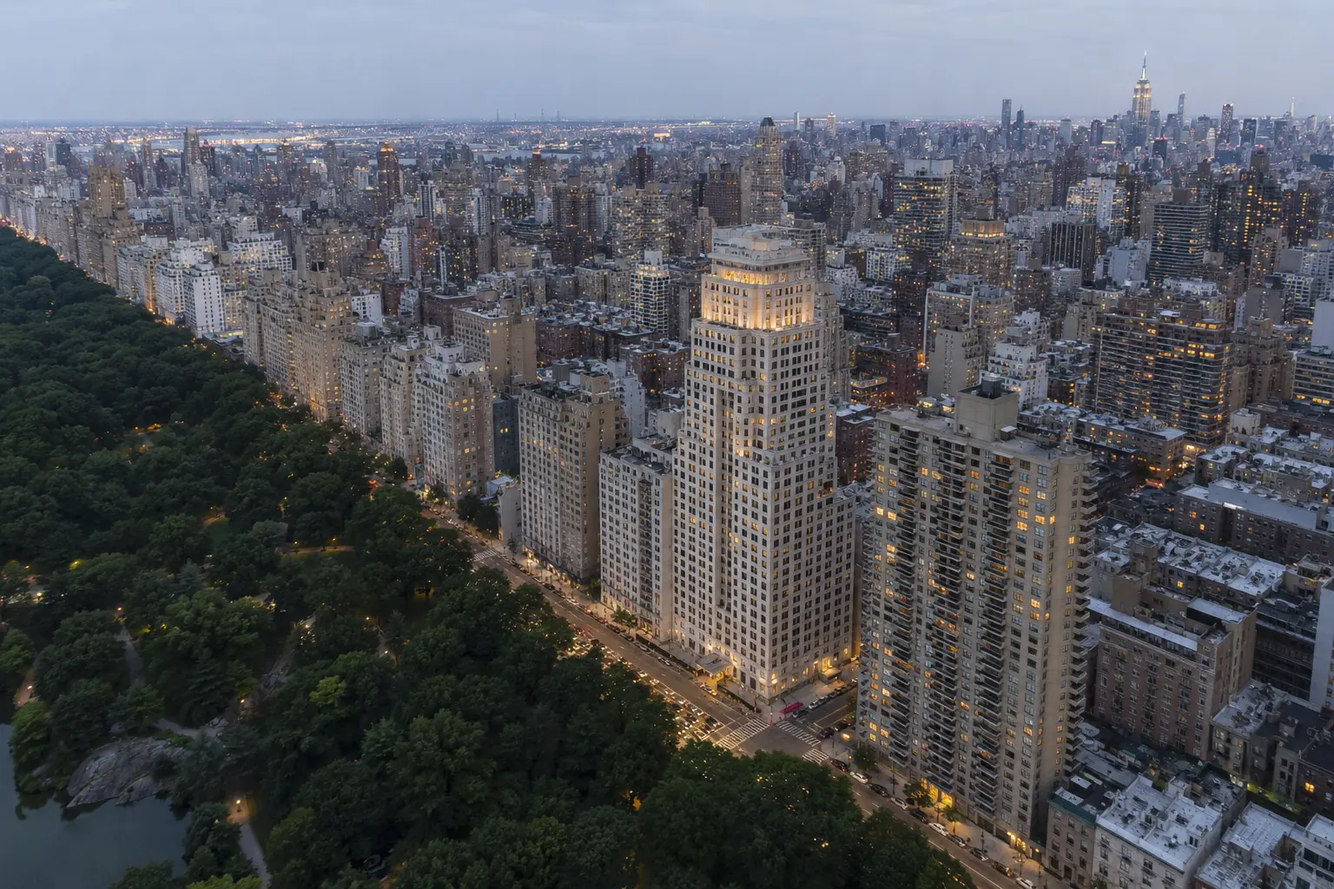
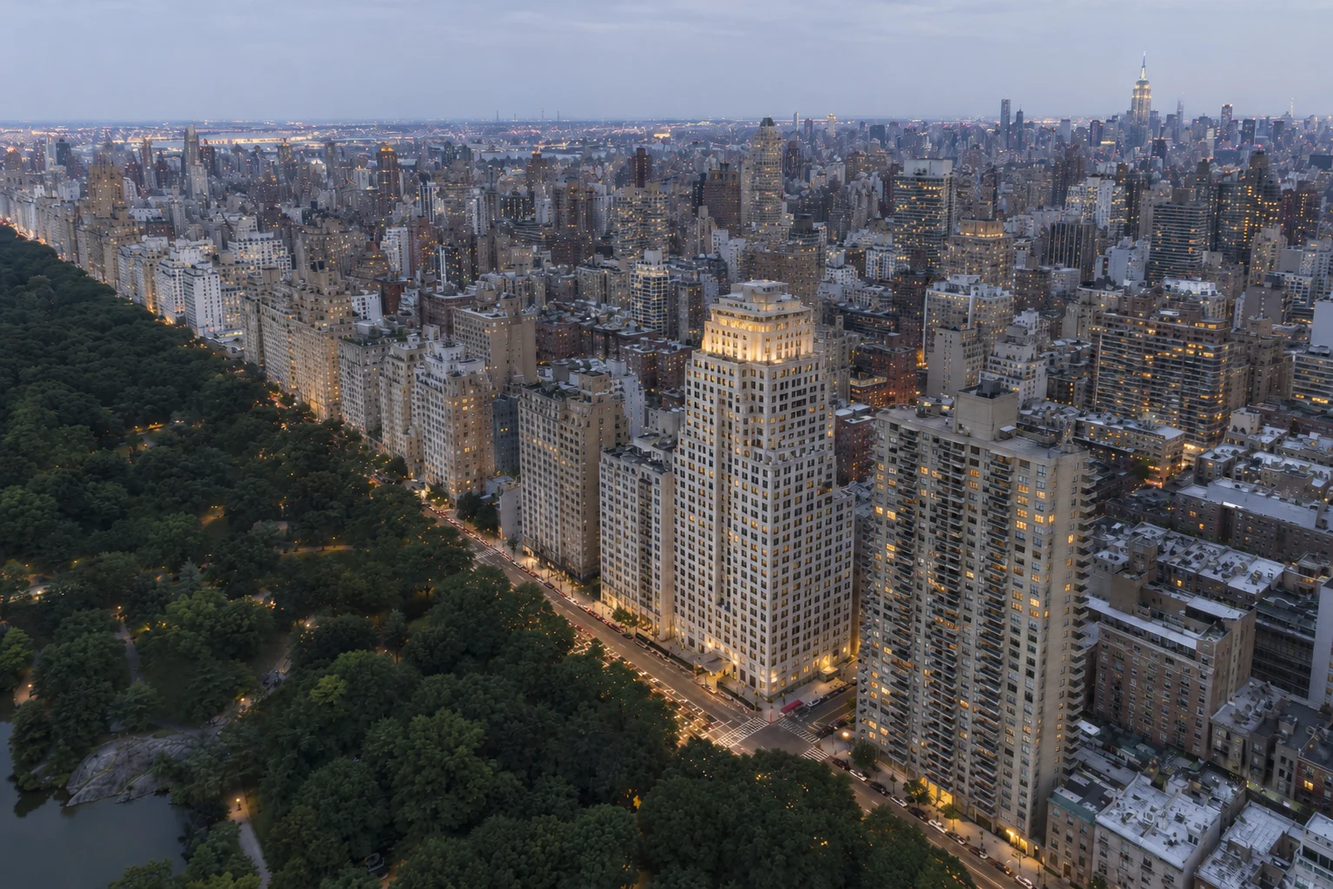
Osborn: shorter tower in hero photo
Claude-Session: https://claude.ai/code/session_01X5Te7gPaiBkF3od7h8Jo5g

diff --git a/norman-osborn-penthouse/index.html b/norman-osborn-penthouse/index.html
@@ -1,16 +1,16 @@
 <!DOCTYPE html><html lang="en"><head><meta charset="utf-8"/><meta name="viewport" content="width=device-width, initial-scale=1"/>
 <title>The Osborn Penthouse · Fifth Avenue at East 72nd</title>
 <meta name="description" content="A fictional luxury listing for Norman Osborn's Upper East Side residence."/>
-<meta property="og:title" content="The Osborn Residence"/><meta property="og:description" content="Four private floors above Central Park. A fictional listing."/><meta property="og:image" content="https://lukesully95.github.io/norman-osborn-penthouse/property-images/Norman%20Osborn%E2%80%99s%20Beaux-Arts%20Parkside%20Residence.webp"/>
+<meta property="og:title" content="The Osborn Residence"/><meta property="og:description" content="Four private floors above Central Park. A fictional listing."/><meta property="og:image" content="https://lukesully95.github.io/norman-osborn-penthouse/property-images/Norman%20Osborn%E2%80%99s%20Beaux-Arts%20Parkside%20Residence.webp?v=2"/>
 <link rel="stylesheet" href="style.css"/>
 <style>.lair{background-size:cover;background-position:center;color:#fff;padding:clamp(60px,9vw,130px) clamp(20px,6vw,90px)}.lair .in{max-width:760px}.lair h2{font-family:Georgia,serif;font-weight:400;font-size:clamp(34px,4.5vw,64px);line-height:1.02;margin:10px 0 22px}.lair p{opacity:.85;line-height:1.7;max-width:640px}.price{font-family:Georgia,serif;font-size:clamp(22px,2.4vw,32px);margin:22px 0 6px}.cta,.topbar nav a:hover{color:#c3a2f5}.monogram{border-color:#9b6ee0!important;color:#c3a2f5}.filters button.active{background:#4b2a7a!important;border-color:#4b2a7a!important;color:#fff!important}.facts{background:linear-gradient(90deg,#0f3b24,#2a1846)!important}.price{color:#c3a2f5}.lair{background-blend-mode:normal}.closing{background:linear-gradient(180deg,rgba(10,40,24,.9),rgba(30,14,55,.92)),url('property-images/Osborn%20Tower%20Beneath%20Gathering%20Storm.webp') 50%/cover!important}footer{background:#140b22!important;color:#c3a2f5!important}.fine{opacity:.6;font-size:12px;letter-spacing:.04em}</style>
 </head><body><main>
 <header class="topbar"><a class="wordmark" href="#top"><span class="monogram">O</span><span>OSBORN PRIVATE RESIDENCES</span></a><nav><a href="#overview">Overview</a><a href="#gallery">Gallery</a><a href="#details">Details</a></nav></header>
-<section id="top" class="hero" style="background-image:linear-gradient(90deg,rgba(8,30,18,.9),rgba(35,16,60,.45) 55%,rgba(20,8,35,.08)),url(&quot;property-images/Norman%20Osborn%E2%80%99s%20Beaux-Arts%20Parkside%20Residence.webp&quot;)"><div class="hero-copy"><p class="eyebrow">Exclusive listing · The Penthouse · Fifth Avenue at East 72nd Street</p><h1>The Osborn<br/>Residence</h1><p class="dek">Four private floors at the top of a prewar limestone co-op on Central Park. Assembled over a decade by Oscorp founder Norman Osborn as the family home he shared with his son, Harry.</p><p class="price">Offered at $95,000,000</p><p class="fine">Co-op · Monthly maintenance $68,400</p><a class="cta" href="#gallery">Explore the residence <span>↓</span></a></div><div class="hero-index"><span>The residence</span><b>26</b><span>rooms &amp; views</span></div></section>
+<section id="top" class="hero" style="background-image:linear-gradient(90deg,rgba(8,30,18,.9),rgba(35,16,60,.45) 55%,rgba(20,8,35,.08)),url(&quot;property-images/Norman%20Osborn%E2%80%99s%20Beaux-Arts%20Parkside%20Residence.webp?v=2&quot;)"><div class="hero-copy"><p class="eyebrow">Exclusive listing · The Penthouse · Fifth Avenue at East 72nd Street</p><h1>The Osborn<br/>Residence</h1><p class="dek">Four private floors at the top of a prewar limestone co-op on Central Park. Assembled over a decade by Oscorp founder Norman Osborn as the family home he shared with his son, Harry.</p><p class="price">Offered at $95,000,000</p><p class="fine">Co-op · Monthly maintenance $68,400</p><a class="cta" href="#gallery">Explore the residence <span>↓</span></a></div><div class="hero-index"><span>The residence</span><b>26</b><span>rooms &amp; views</span></div></section>
 <section id="overview" class="overview wrap"><div><p class="eyebrow dark">The property</p><h2>A mansion<br/>in the sky.</h2></div><div class="overview-copy"><p class="lead">Discreet from the street and formidable in scale, the residence occupies floors 22 through 25 of one of Fifth Avenue's most private co-ops.</p><p>A key-locked private elevator opens to a walnut and green-marble foyer. The principal rooms face west over Central Park, with Midtown views to the south. Walnut, marble and bronze run through every floor. The residence has seven bedrooms, eight full and two half baths, a library, a screening room, a gym, staff quarters and a private roof terrace with a copper-and-glass conservatory.</p><p>The building offers a 24-hour doorman, a resident manager, private storage and a wine cellar. Board approval is required. Brokers, please call for an appointment.</p><p class="fiction-note">A fictional, fan-made listing based on Norman Osborn's wealth, taste and Manhattan history in the comics. Not an official Marvel property.</p></div></section>
 <section id="details" class="facts"><div><b>$95M</b><span>asking price</span></div><div><b>14,200</b><span>interior sq ft</span></div><div><b>7 · 8.5</b><span>bedrooms · baths</span></div><div><b>22–25</b><span>private floors</span></div><div><b>3,100</b><span>sq ft of terraces</span></div></section>
 <section id="gallery" class="gallery-section wrap"><div class="gallery-head"><div><p class="eyebrow dark">Complete visual archive</p><h2>Every room.<br/>One residence.</h2></div><p>From the limestone exterior and formal entertaining floor to Harry's suite and the roof garden. A separate, unlisted facility is shown last.</p></div>
-<div class="filters" role="tablist"><button class="active" data-f="All">All<small>32</small></button><button class="" data-f="Floor plan">Floor plan<small>1</small></button><button class="" data-f="Exterior">Exterior<small>3</small></button><button class="" data-f="Residence">Residence<small>17</small></button><button class="" data-f="Private suites">Private suites<small>4</small></button><button class="" data-f="Rooftop">Rooftop<small>2</small></button><button class="" data-f="Off-site">Goblin lair (off-site)<small>5</small></button></div><div class="masonry"><button class="card wide" data-c="Floor plan" data-i="0" aria-label="Open Floor plan, floors 22–25"><img src="property-images/Floor%20plan.webp" alt="Floor plan, floors 22–25" loading="eager"/><span class="shade"></span><span class="card-copy"><small>Floor plan</small><strong>Floor plan, floors 22–25</strong></span><span class="plus">＋</span></button><button class="card wide" data-c="Exterior" data-i="1" aria-label="Open The building from above, Fifth Avenue at East 72nd"><img src="property-images/Aerial%20View%20of%20Norman%20Osborn%27s%20Residence.webp" alt="The building from above, Fifth Avenue at East 72nd" loading="eager"/><span class="shade"></span><span class="card-copy"><small>Exterior</small><strong>The building from above, Fifth Avenue at East 72nd</strong></span><span class="plus">＋</span></button><button class="card " data-c="Exterior" data-i="2" aria-label="Open Beaux-Arts limestone facade on the park"><img src="property-images/Norman%20Osborn%E2%80%99s%20Beaux-Arts%20Parkside%20Residence.webp" alt="Beaux-Arts limestone facade on the park" loading="eager"/><span class="shade"></span><span class="card-copy"><small>Exterior</small><strong>Beaux-Arts limestone facade on the park</strong></span><span class="plus">＋</span></button><button class="card wide" data-c="Exterior" data-i="3" aria-label="Open Doorman lobby"><img src="property-images/Building%20lobby.webp" alt="Doorman lobby" loading="eager"/><span class="shade"></span><span class="card-copy"><small>Exterior</small><strong>Doorman lobby</strong></span><span class="plus">＋</span></button><button class="card " data-c="Residence" data-i="4" aria-label="Open Private elevator foyer in walnut, brass and green marble"><img src="property-images/Walnut%2C%20brass%2C%20and%20green%20marble%20foyer.webp" alt="Private elevator foyer in walnut, brass and green marble" loading="eager"/><span class="shade"></span><span class="card-copy"><small>Residence</small><strong>Private elevator foyer in walnut, brass and green marble</strong></span><span class="plus">＋</span></button><button class="card " data-c="Residence" data-i="5" aria-label="Open West-facing living room over Central Park"><img src="property-images/West-Facing%20Living%20Room%20with%20Central%20Park%20View.webp" alt="West-facing living room over Central Park" loading="eager"/><span class="shade"></span><span class="card-copy"><small>Residence</small><strong>West-facing living room over Central Park</strong></span><span class="plus">＋</span></button><button class="card wide" data-c="Residence" data-i="6" aria-label="Open Family lounge with park views"><img src="property-images/Family%20lounge%20with%20Central%20Park%20views.webp" alt="Family lounge with park views" loading="lazy"/><span class="shade"></span><span class="card-copy"><small>Residence</small><strong>Family lounge with park views</strong></span><span class="plus">＋</span></button><button class="card " data-c="Residence" data-i="7" aria-label="Open Formal dining room seating 16"><img src="property-images/Walnut%20Dining%20Room%20with%20Distant%20Midtown.webp" alt="Formal dining room seating 16" loading="lazy"/><span class="shade"></span><span class="card-copy"><small>Residence</small><strong>Formal dining room seating 16</strong></span><span class="plus">＋</span></button><button class="card " data-c="Residence" data-i="8" aria-label="Open Chef&#x27;s kitchen in walnut and marble"><img src="property-images/Walnut%20Marble%20Kitchen%20with%20Queens%20Views.webp" alt="Chef&#x27;s kitchen in walnut and marble" loading="lazy"/><span class="shade"></span><span class="card-copy"><small>Residence</small><strong>Chef&#x27;s kitchen in walnut and marble</strong></span><span class="plus">＋</span></button><button class="card wide" data-c="Residence" data-i="9" aria-label="Open Breakfast room"><img src="property-images/Osborn%27s%20Manhattan%20Breakfast%20Nook.webp" alt="Breakfast room" loading="lazy"/><span class="shade"></span><span class="card-copy"><small>Residence</small><strong>Breakfast room</strong></span><span class="plus">＋</span></button><button class="card " data-c="Residence" data-i="10" aria-label="Open Screening room"><img src="property-images/Burgundy%20Seats%20in%20a%20Walnut%20Screening%20Room.webp" alt="Screening room" loading="lazy"/><span class="shade"></span><span class="card-copy"><small>Residence</small><strong>Screening room</strong></span><span class="plus">＋</span></button><button class="card " data-c="Residence" data-i="11" aria-label="Open Bar and billiards lounge"><img src="property-images/Walnut%20Bar%20and%20Billiards%20Lounge.webp" alt="Bar and billiards lounge" loading="lazy"/><span class="shade"></span><span class="card-copy"><small>Residence</small><strong>Bar and billiards lounge</strong></span><span class="plus">＋</span></button><button class="card " data-c="Residence" data-i="12" aria-label="Open Private gym"><img src="property-images/Private%20gym%20over%20Upper%20East%20Side.webp" alt="Private gym" loading="lazy"/><span class="shade"></span><span class="card-copy"><small>Residence</small><strong>Private gym</strong></span><span class="plus">＋</span></button><button class="card wide" data-c="Residence" data-i="13" aria-label="Open Norman&#x27;s study, with Oscorp archives and a private service exit"><img src="property-images/Norman%20Osborn%27s%20Walnut%20Study%20with%20City%20Views.webp" alt="Norman&#x27;s study, with Oscorp archives and a private service exit" loading="lazy"/><span class="shade"></span><span class="card-copy"><small>Residence</small><strong>Norman&#x27;s study, with Oscorp archives and a private service exit</strong></span><span class="plus">＋</span></button><button class="card " data-c="Residence" data-i="14" aria-label="Open Library overlooking the park"><img src="property-images/Walnut%20Library%20Overlooking%20Central%20Park.webp" alt="Library overlooking the park" loading="lazy"/><span class="shade"></span><span class="card-copy"><small>Residence</small><strong>Library overlooking the park</strong></span><span class="plus">＋</span></button><button class="card " data-c="Residence" data-i="15" aria-label="Open Family gallery"><img src="property-images/Osborn%20family%20gallery%20and%20trophy%20hall.webp" alt="Family gallery" loading="lazy"/><span class="shade"></span><span class="card-copy"><small>Residence</small><strong>Family gallery</strong></span><span class="plus">＋</span></button><button class="card wide" data-c="Private suites" data-i="16" aria-label="Open Primary bedroom over Central Park"><img src="property-images/Norman%E2%80%99s%20Walnut%20Bedroom%20Over%20Central%20Park.webp" alt="Primary bedroom over Central Park" loading="lazy"/><span class="shade"></span><span class="card-copy"><small>Private suites</small><strong>Primary bedroom over Central Park</strong></span><span class="plus">＋</span></button><button class="card " data-c="Private suites" data-i="17" aria-label="Open Primary dressing suite and bath"><img src="property-images/Norman%20Osborn%27s%20Marble%20Dressing%20Suite.webp" alt="Primary dressing suite and bath" loading="lazy"/><span class="shade"></span><span class="card-copy"><small>Private suites</small><strong>Primary dressing suite and bath</strong></span><span class="plus">＋</span></button><button class="card " data-c="Private suites" data-i="18" aria-label="Open Harry&#x27;s bedroom"><img src="property-images/Harry%20Osborn%E2%80%99s%20Warm%20Central%20Park%20Retreat.webp" alt="Harry&#x27;s bedroom" loading="lazy"/><span class="shade"></span><span class="card-copy"><small>Private suites</small><strong>Harry&#x27;s bedroom</strong></span><span class="plus">＋</span></button><button class="card " data-c="Private suites" data-i="19" aria-label="Open Harry&#x27;s bath and dressing room"><img src="property-images/Harry%E2%80%99s%20Marble%20Bath%20and%20Dressing%20Room.webp" alt="Harry&#x27;s bath and dressing room" loading="lazy"/><span class="shade"></span><span class="card-copy"><small>Private suites</small><strong>Harry&#x27;s bath and dressing room</strong></span><span class="plus">＋</span></button><button class="card " data-c="Residence" data-i="20" aria-label="Open Staff quarters"><img src="property-images/Staff%20quarters.webp" alt="Staff quarters" loading="lazy"/><span class="shade"></span><span class="card-copy"><small>Residence</small><strong>Staff quarters</strong></span><span class="plus">＋</span></button><button class="card wide" data-c="Residence" data-i="21" aria-label="Open Guest suite with Midtown view"><img src="property-images/Burgundy%20guest%20suite%20with%20Midtown%20view.webp" alt="Guest suite with Midtown view" loading="lazy"/><span class="shade"></span><span class="card-copy"><small>Residence</small><strong>Guest suite with Midtown view</strong></span><span class="plus">＋</span></button><button class="card " data-c="Residence" data-i="22" aria-label="Open Guest bath"><img src="property-images/Pale%20marble%20guest%20bath.webp" alt="Guest bath" loading="lazy"/><span class="shade"></span><span class="card-copy"><small>Residence</small><strong>Guest bath</strong></span><span class="plus">＋</span></button><button class="card " data-c="Residence" data-i="23" aria-label="Open Powder room"><img src="property-images/Osborn%20powder%20room.png" alt="Powder room" loading="lazy"/><span class="shade"></span><span class="card-copy"><small>Residence</small><strong>Powder room</strong></span><span class="plus">＋</span></button><button class="card wide" data-c="Residence" data-i="24" aria-label="Open Laundry room"><img src="property-images/Osborn%20private%20laundry%20room.png" alt="Laundry room" loading="lazy"/><span class="shade"></span><span class="card-copy"><small>Residence</small><strong>Laundry room</strong></span><span class="plus">＋</span></button><button class="card " data-c="Rooftop" data-i="25" aria-label="Open Private roof terrace"><img src="property-images/Rooftop%20Terrace%20Overlooking%20Central%20Park%282%29.webp" alt="Private roof terrace" loading="lazy"/><span class="shade"></span><span class="card-copy"><small>Rooftop</small><strong>Private roof terrace</strong></span><span class="plus">＋</span></button><button class="card " data-c="Rooftop" data-i="26" aria-label="Open Copper-and-glass conservatory"><img src="property-images/Copper-and-glass%20conservatory%20above%20Central%20Park.webp" alt="Copper-and-glass conservatory" loading="lazy"/><span class="shade"></span><span class="card-copy"><small>Rooftop</small><strong>Copper-and-glass conservatory</strong></span><span class="plus">＋</span></button><button class="card " data-c="Off-site" data-i="27" aria-label="Open Goblin equipment workshop"><img src="property-images/Underground%20Green%20Goblin%20Equipment%20Workshop.webp" alt="Goblin equipment workshop" loading="lazy"/><span class="shade"></span><span class="card-copy"><small>Off-site · not included</small><strong>Goblin equipment workshop</strong></span><span class="plus">＋</span></button><button class="card wide" data-c="Off-site" data-i="28" aria-label="Open Goblin formula lab"><img src="property-images/Underground%20Green%20Goblin%20chemistry%20lab.webp" alt="Goblin formula lab" loading="lazy"/><span class="shade"></span><span class="card-copy"><small>Off-site · not included</small><strong>Goblin formula lab</strong></span><span class="plus">＋</span></button><button class="card " data-c="Off-site" data-i="29" aria-label="Open Glider maintenance bay"><img src="property-images/Emerald%20Goblin%20Glider%20Maintenance%20Bay.webp" alt="Glider maintenance bay" loading="lazy"/><span class="shade"></span><span class="card-copy"><small>Off-site · not included</small><strong>Glider maintenance bay</strong></span><span class="plus">＋</span></button><button class="card " data-c="Off-site" data-i="30" aria-label="Open Glider launch hangar"><img src="property-images/Hidden%20Goblin%20glider%20launch%20hangar.webp" alt="Glider launch hangar" loading="lazy"/><span class="shade"></span><span class="card-copy"><small>Off-site · not included</small><strong>Glider launch hangar</strong></span><span class="plus">＋</span></button><button class="card wide" data-c="Off-site" data-i="31" aria-label="Open Vehicle vault"><img src="property-images/Osborn%E2%80%99s%20Underground%20Vehicle%20Vault.webp" alt="Vehicle vault" loading="lazy"/><span class="shade"></span><span class="card-copy"><small>Off-site · not included</small><strong>Vehicle vault</strong></span><span class="plus">＋</span></button></div></section>
+<div class="filters" role="tablist"><button class="active" data-f="All">All<small>32</small></button><button class="" data-f="Floor plan">Floor plan<small>1</small></button><button class="" data-f="Exterior">Exterior<small>3</small></button><button class="" data-f="Residence">Residence<small>17</small></button><button class="" data-f="Private suites">Private suites<small>4</small></button><button class="" data-f="Rooftop">Rooftop<small>2</small></button><button class="" data-f="Off-site">Goblin lair (off-site)<small>5</small></button></div><div class="masonry"><button class="card wide" data-c="Floor plan" data-i="0" aria-label="Open Floor plan, floors 22–25"><img src="property-images/Floor%20plan.webp" alt="Floor plan, floors 22–25" loading="eager"/><span class="shade"></span><span class="card-copy"><small>Floor plan</small><strong>Floor plan, floors 22–25</strong></span><span class="plus">＋</span></button><button class="card wide" data-c="Exterior" data-i="1" aria-label="Open The building from above, Fifth Avenue at East 72nd"><img src="property-images/Aerial%20View%20of%20Norman%20Osborn%27s%20Residence.webp" alt="The building from above, Fifth Avenue at East 72nd" loading="eager"/><span class="shade"></span><span class="card-copy"><small>Exterior</small><strong>The building from above, Fifth Avenue at East 72nd</strong></span><span class="plus">＋</span></button><button class="card " data-c="Exterior" data-i="2" aria-label="Open Beaux-Arts limestone facade on the park"><img src="property-images/Norman%20Osborn%E2%80%99s%20Beaux-Arts%20Parkside%20Residence.webp?v=2" alt="Beaux-Arts limestone facade on the park" loading="eager"/><span class="shade"></span><span class="card-copy"><small>Exterior</small><strong>Beaux-Arts limestone facade on the park</strong></span><span class="plus">＋</span></button><button class="card wide" data-c="Exterior" data-i="3" aria-label="Open Doorman lobby"><img src="property-images/Building%20lobby.webp" alt="Doorman lobby" loading="eager"/><span class="shade"></span><span class="card-copy"><small>Exterior</small><strong>Doorman lobby</strong></span><span class="plus">＋</span></button><button class="card " data-c="Residence" data-i="4" aria-label="Open Private elevator foyer in walnut, brass and green marble"><img src="property-images/Walnut%2C%20brass%2C%20and%20green%20marble%20foyer.webp" alt="Private elevator foyer in walnut, brass and green marble" loading="eager"/><span class="shade"></span><span class="card-copy"><small>Residence</small><strong>Private elevator foyer in walnut, brass and green marble</strong></span><span class="plus">＋</span></button><button class="card " data-c="Residence" data-i="5" aria-label="Open West-facing living room over Central Park"><img src="property-images/West-Facing%20Living%20Room%20with%20Central%20Park%20View.webp" alt="West-facing living room over Central Park" loading="eager"/><span class="shade"></span><span class="card-copy"><small>Residence</small><strong>West-facing living room over Central Park</strong></span><span class="plus">＋</span></button><button class="card wide" data-c="Residence" data-i="6" aria-label="Open Family lounge with park views"><img src="property-images/Family%20lounge%20with%20Central%20Park%20views.webp" alt="Family lounge with park views" loading="lazy"/><span class="shade"></span><span class="card-copy"><small>Residence</small><strong>Family lounge with park views</strong></span><span class="plus">＋</span></button><button class="card " data-c="Residence" data-i="7" aria-label="Open Formal dining room seating 16"><img src="property-images/Walnut%20Dining%20Room%20with%20Distant%20Midtown.webp" alt="Formal dining room seating 16" loading="lazy"/><span class="shade"></span><span class="card-copy"><small>Residence</small><strong>Formal dining room seating 16</strong></span><span class="plus">＋</span></button><button class="card " data-c="Residence" data-i="8" aria-label="Open Chef&#x27;s kitchen in walnut and marble"><img src="property-images/Walnut%20Marble%20Kitchen%20with%20Queens%20Views.webp" alt="Chef&#x27;s kitchen in walnut and marble" loading="lazy"/><span class="shade"></span><span class="card-copy"><small>Residence</small><strong>Chef&#x27;s kitchen in walnut and marble</strong></span><span class="plus">＋</span></button><button class="card wide" data-c="Residence" data-i="9" aria-label="Open Breakfast room"><img src="property-images/Osborn%27s%20Manhattan%20Breakfast%20Nook.webp" alt="Breakfast room" loading="lazy"/><span class="shade"></span><span class="card-copy"><small>Residence</small><strong>Breakfast room</strong></span><span class="plus">＋</span></button><button class="card " data-c="Residence" data-i="10" aria-label="Open Screening room"><img src="property-images/Burgundy%20Seats%20in%20a%20Walnut%20Screening%20Room.webp" alt="Screening room" loading="lazy"/><span class="shade"></span><span class="card-copy"><small>Residence</small><strong>Screening room</strong></span><span class="plus">＋</span></button><button class="card " data-c="Residence" data-i="11" aria-label="Open Bar and billiards lounge"><img src="property-images/Walnut%20Bar%20and%20Billiards%20Lounge.webp" alt="Bar and billiards lounge" loading="lazy"/><span class="shade"></span><span class="card-copy"><small>Residence</small><strong>Bar and billiards lounge</strong></span><span class="plus">＋</span></button><button class="card " data-c="Residence" data-i="12" aria-label="Open Private gym"><img src="property-images/Private%20gym%20over%20Upper%20East%20Side.webp" alt="Private gym" loading="lazy"/><span class="shade"></span><span class="card-copy"><small>Residence</small><strong>Private gym</strong></span><span class="plus">＋</span></button><button class="card wide" data-c="Residence" data-i="13" aria-label="Open Norman&#x27;s study, with Oscorp archives and a private service exit"><img src="property-images/Norman%20Osborn%27s%20Walnut%20Study%20with%20City%20Views.webp" alt="Norman&#x27;s study, with Oscorp archives and a private service exit" loading="lazy"/><span class="shade"></span><span class="card-copy"><small>Residence</small><strong>Norman&#x27;s study, with Oscorp archives and a private service exit</strong></span><span class="plus">＋</span></button><button class="card " data-c="Residence" data-i="14" aria-label="Open Library overlooking the park"><img src="property-images/Walnut%20Library%20Overlooking%20Central%20Park.webp" alt="Library overlooking the park" loading="lazy"/><span class="shade"></span><span class="card-copy"><small>Residence</small><strong>Library overlooking the park</strong></span><span class="plus">＋</span></button><button class="card " data-c="Residence" data-i="15" aria-label="Open Family gallery"><img src="property-images/Osborn%20family%20gallery%20and%20trophy%20hall.webp" alt="Family gallery" loading="lazy"/><span class="shade"></span><span class="card-copy"><small>Residence</small><strong>Family gallery</strong></span><span class="plus">＋</span></button><button class="card wide" data-c="Private suites" data-i="16" aria-label="Open Primary bedroom over Central Park"><img src="property-images/Norman%E2%80%99s%20Walnut%20Bedroom%20Over%20Central%20Park.webp" alt="Primary bedroom over Central Park" loading="lazy"/><span class="shade"></span><span class="card-copy"><small>Private suites</small><strong>Primary bedroom over Central Park</strong></span><span class="plus">＋</span></button><button class="card " data-c="Private suites" data-i="17" aria-label="Open Primary dressing suite and bath"><img src="property-images/Norman%20Osborn%27s%20Marble%20Dressing%20Suite.webp" alt="Primary dressing suite and bath" loading="lazy"/><span class="shade"></span><span class="card-copy"><small>Private suites</small><strong>Primary dressing suite and bath</strong></span><span class="plus">＋</span></button><button class="card " data-c="Private suites" data-i="18" aria-label="Open Harry&#x27;s bedroom"><img src="property-images/Harry%20Osborn%E2%80%99s%20Warm%20Central%20Park%20Retreat.webp" alt="Harry&#x27;s bedroom" loading="lazy"/><span class="shade"></span><span class="card-copy"><small>Private suites</small><strong>Harry&#x27;s bedroom</strong></span><span class="plus">＋</span></button><button class="card " data-c="Private suites" data-i="19" aria-label="Open Harry&#x27;s bath and dressing room"><img src="property-images/Harry%E2%80%99s%20Marble%20Bath%20and%20Dressing%20Room.webp" alt="Harry&#x27;s bath and dressing room" loading="lazy"/><span class="shade"></span><span class="card-copy"><small>Private suites</small><strong>Harry&#x27;s bath and dressing room</strong></span><span class="plus">＋</span></button><button class="card " data-c="Residence" data-i="20" aria-label="Open Staff quarters"><img src="property-images/Staff%20quarters.webp" alt="Staff quarters" loading="lazy"/><span class="shade"></span><span class="card-copy"><small>Residence</small><strong>Staff quarters</strong></span><span class="plus">＋</span></button><button class="card wide" data-c="Residence" data-i="21" aria-label="Open Guest suite with Midtown view"><img src="property-images/Burgundy%20guest%20suite%20with%20Midtown%20view.webp" alt="Guest suite with Midtown view" loading="lazy"/><span class="shade"></span><span class="card-copy"><small>Residence</small><strong>Guest suite with Midtown view</strong></span><span class="plus">＋</span></button><button class="card " data-c="Residence" data-i="22" aria-label="Open Guest bath"><img src="property-images/Pale%20marble%20guest%20bath.webp" alt="Guest bath" loading="lazy"/><span class="shade"></span><span class="card-copy"><small>Residence</small><strong>Guest bath</strong></span><span class="plus">＋</span></button><button class="card " data-c="Residence" data-i="23" aria-label="Open Powder room"><img src="property-images/Osborn%20powder%20room.png" alt="Powder room" loading="lazy"/><span class="shade"></span><span class="card-copy"><small>Residence</small><strong>Powder room</strong></span><span class="plus">＋</span></button><button class="card wide" data-c="Residence" data-i="24" aria-label="Open Laundry room"><img src="property-images/Osborn%20private%20laundry%20room.png" alt="Laundry room" loading="lazy"/><span class="shade"></span><span class="card-copy"><small>Residence</small><strong>Laundry room</strong></span><span class="plus">＋</span></button><button class="card " data-c="Rooftop" data-i="25" aria-label="Open Private roof terrace"><img src="property-images/Rooftop%20Terrace%20Overlooking%20Central%20Park%282%29.webp" alt="Private roof terrace" loading="lazy"/><span class="shade"></span><span class="card-copy"><small>Rooftop</small><strong>Private roof terrace</strong></span><span class="plus">＋</span></button><button class="card " data-c="Rooftop" data-i="26" aria-label="Open Copper-and-glass conservatory"><img src="property-images/Copper-and-glass%20conservatory%20above%20Central%20Park.webp" alt="Copper-and-glass conservatory" loading="lazy"/><span class="shade"></span><span class="card-copy"><small>Rooftop</small><strong>Copper-and-glass conservatory</strong></span><span class="plus">＋</span></button><button class="card " data-c="Off-site" data-i="27" aria-label="Open Goblin equipment workshop"><img src="property-images/Underground%20Green%20Goblin%20Equipment%20Workshop.webp" alt="Goblin equipment workshop" loading="lazy"/><span class="shade"></span><span class="card-copy"><small>Off-site · not included</small><strong>Goblin equipment workshop</strong></span><span class="plus">＋</span></button><button class="card wide" data-c="Off-site" data-i="28" aria-label="Open Goblin formula lab"><img src="property-images/Underground%20Green%20Goblin%20chemistry%20lab.webp" alt="Goblin formula lab" loading="lazy"/><span class="shade"></span><span class="card-copy"><small>Off-site · not included</small><strong>Goblin formula lab</strong></span><span class="plus">＋</span></button><button class="card " data-c="Off-site" data-i="29" aria-label="Open Glider maintenance bay"><img src="property-images/Emerald%20Goblin%20Glider%20Maintenance%20Bay.webp" alt="Glider maintenance bay" loading="lazy"/><span class="shade"></span><span class="card-copy"><small>Off-site · not included</small><strong>Glider maintenance bay</strong></span><span class="plus">＋</span></button><button class="card " data-c="Off-site" data-i="30" aria-label="Open Glider launch hangar"><img src="property-images/Hidden%20Goblin%20glider%20launch%20hangar.webp" alt="Glider launch hangar" loading="lazy"/><span class="shade"></span><span class="card-copy"><small>Off-site · not included</small><strong>Glider launch hangar</strong></span><span class="plus">＋</span></button><button class="card wide" data-c="Off-site" data-i="31" aria-label="Open Vehicle vault"><img src="property-images/Osborn%E2%80%99s%20Underground%20Vehicle%20Vault.webp" alt="Vehicle vault" loading="lazy"/><span class="shade"></span><span class="card-copy"><small>Off-site · not included</small><strong>Vehicle vault</strong></span><span class="plus">＋</span></button></div></section>
 <section class="lair" style="background-image:linear-gradient(135deg,rgba(10,40,24,.92),rgba(40,18,70,.9)),url(&quot;property-images/Osborn%20Tower%20Beneath%20Gathering%20Storm.webp&quot;)"><div class="in"><p class="eyebrow">Not part of this offering</p><h2>What the listing<br/>doesn't include.</h2><p>Norman Osborn kept one part of his life far from Fifth Avenue. Beneath a decommissioned Oscorp warehouse across town sits an unregistered facility: a formula lab, an equipment workshop, a glider bay and a vehicle vault. It appears on no deed and is not connected to the building. The only clue at home is a door in Norman's study that leads to a private service exit.</p></div></section>
 <section class="closing"><p class="eyebrow">The Osborn standard</p><blockquote>“Power does not need to announce itself.”</blockquote><span>Fictional listing · New York</span></section>
 <footer><span>OSBORN PRIVATE RESIDENCES</span><span>Concept property · 2026</span></footer></main>
